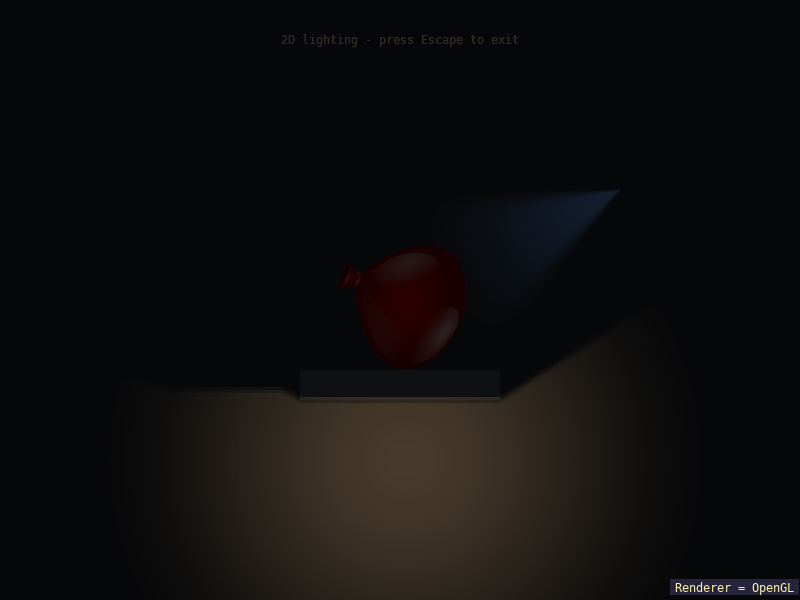
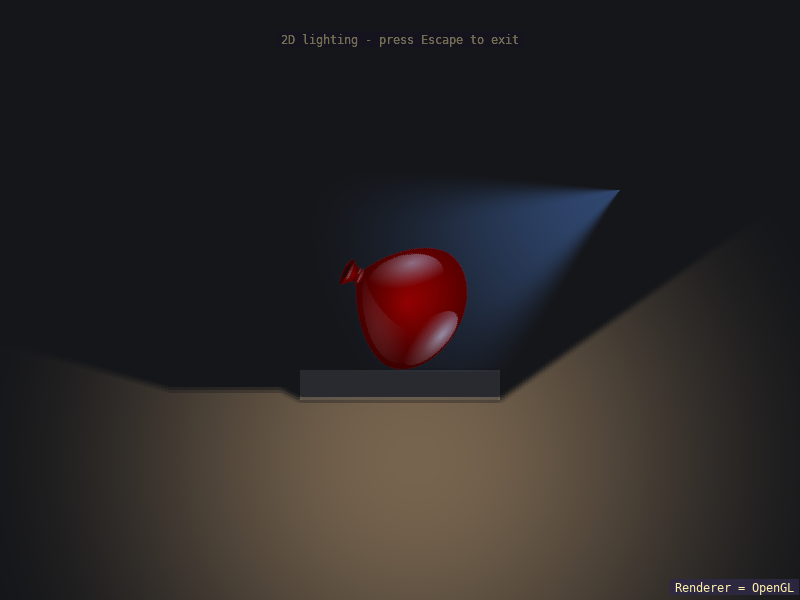
exlighting tweak

diff --git a/src/examples/exlighting/exlighting.cpp b/src/examples/exlighting/exlighting.cpp
@@ -42,7 +42,7 @@ int main(int argc, char *argv[])
         sl::shutdown();
         return -1;
     }
-    lighting.set_ambient(0.18f);
+    lighting.set_ambient(0.45f);
     const std::vector<sl::ShadowCaster> casters = {
         sl::make_rectangle_shadow_caster(300.0f, 370.0f, 500.0f, 400.0f),
         {{{170.0f, 390.0f}, {230.0f, 320.0f}, {290.0f, 390.0f}}},
@@ -73,21 +73,21 @@ int main(int argc, char *argv[])
         sl::Light warm_light;
         warm_light.x = 400.0f + std::cos(static_cast<float>(sl::time_ms()) * 0.001f) * 220.0f;
         warm_light.y = 300.0f - std::sin(static_cast<float>(sl::time_ms()) * 0.001f) * 160.0f;
-        warm_light.radius = 320.0f;
-        warm_light.intensity = 1.4f;
+        warm_light.radius = 460.0f;
+        warm_light.intensity = 2.2f;
         warm_light.shadow_softness = hard_shadows ? 0.0f : 3.0f;
         warm_light.colour = {255, 190, 110};
 
         sl::Light cool_light;
         cool_light.x = 620.0f;
         cool_light.y = 190.0f;
-        cool_light.radius = 220.0f;
-        cool_light.intensity = 0.65f;
+        cool_light.radius = 340.0f;
+        cool_light.intensity = 1.5f;
         cool_light.shadow_softness = hard_shadows ? 0.0f : 2.0f;
         cool_light.direction_x = -0.8944f;
         cool_light.direction_y = 0.4472f;
         cool_light.inner_angle = 12.0f;
-        cool_light.outer_angle = 28.0f;
+        cool_light.outer_angle = 34.0f;
         cool_light.colour = {100, 170, 255};
 
         const std::vector<sl::Light> lights = {warm_light, cool_light};
